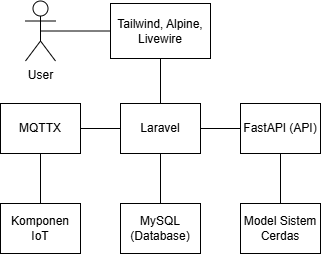
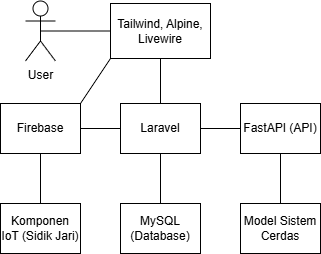
fix: PTC Done

diff --git a/apps/web/resources/views/livewire/feature/lecturer/forms/lecturer-form.blade.php b/apps/web/resources/views/livewire/feature/lecturer/forms/lecturer-form.blade.php
@@ -6,6 +6,27 @@ use App\Enums\User\UserGenderEnum;
 
 <div class="card">
     <div class="card-body p-0">
+
+        @if ($lecturer)
+            @if ($lecturer->user->fp_id)
+                <button wire:click="scanFingerPrint" class="alert alert-info alert-soft w-full cursor-pointer" onclick="document.getElementById('fingerprint_modal').showModal()">
+                    <x-icon.info class="size-4"/>
+                    <span>Sidik jari sudah terdaftar</span>
+                    <span class="btn btn-info btn-md">
+                        <span>Ganti</span>
+                    </span>
+                </button>
+            @else
+                <button wire:click="scanFingerPrint" class="alert alert-error alert-soft w-full cursor-pointer" onclick="document.getElementById('fingerprint_modal').showModal()">
+                    <x-icon.warning class="size-4"/>
+                    <span>Sidik jari belum terdaftar silahkan <span class="font-semibold hover:underline">daftarkan</span> sidik jari anda</span>
+                    <span class="btn btn-error btn-md">
+                        <span>Daftarkan</span>
+                    </span>
+                </button>
+            @endif
+        @endif
+
         <!-- Header -->
         <div class="mb-4">
             <h2 class="card-title text-2xl font-bold">

diff --git a/apps/web/app/Livewire/Feature/Course/Tables/CourseAttendanceTable.php b/apps/web/app/Livewire/Feature/Course/Tables/CourseAttendanceTable.php
@@ -238,8 +238,12 @@ class CourseAttendanceTable extends Component
                 'mode'    => 1,
             ]);
             $this->is_open = true;
+            $this->selectedSchedule->is_open = 1;
+            $this->selectedSchedule->save();
         } catch (Exception $e) {
             $this->is_open = false;
+            $this->selectedSchedule->is_open = 0;
+            $this->selectedSchedule->save();
         }
     }
 
@@ -252,8 +256,12 @@ class CourseAttendanceTable extends Component
                 'mode'    => 0,
             ]);
             $this->is_open = false;
+            $this->selectedSchedule->is_open = 0;
+            $this->selectedSchedule->save();
         } catch (Exception $e) {
             $this->is_open = true;
+            $this->selectedSchedule->is_open = 1;
+            $this->selectedSchedule->save();
         }
     }
 
@@ -286,6 +294,9 @@ class CourseAttendanceTable extends Component
         }
 
         return Attendance::with(['user', 'schedule'])
+            ->whereHas('user.roles', function ($uq) {
+                $uq->where('code', 'mhs');
+            })
             ->where('schedule_id', $schedule->id)
             ->orderBy('id')
             ->paginate($this->perPage);

diff --git a/apps/web/app/Livewire/Feature/Lecturer/Forms/LecturerForm.php b/apps/web/app/Livewire/Feature/Lecturer/Forms/LecturerForm.php
@@ -81,8 +81,8 @@ class LecturerForm extends Component
             'phone_number' => ['nullable', 'string', 'min:10', 'max:13'],
             'gender' => ['nullable', Rule::enum(UserGenderEnum::class)], // atau gunakan Enum Rule jika prefer
             'address' => ['nullable', 'string', 'max:500'],
-            'nip' => ['required', 'string', 'max:20', $lecturerId ? Rule::unique('lecturers','nip')->ignore($lecturerId) : 'unique:lecturers,nip'],
-            'nidn' => ['required', 'string', 'max:20', $lecturerId ? Rule::unique('lecturers','nip')->ignore($lecturerId) : 'unique:lecturers,nip'],
+            'nip' => ['required', 'numeric', 'digits:18', $lecturerId ? Rule::unique('lecturers','nip')->ignore($lecturerId) : 'unique:lecturers,nip'],
+            'nidn' => ['required', 'numeric', 'digits:10', $lecturerId ? Rule::unique('lecturers','nip')->ignore($lecturerId) : 'unique:lecturers,nip'],
             'code' => ['required', 'string', 'max:20', $lecturerId ? Rule::unique('lecturers','nip')->ignore($lecturerId) : 'unique:lecturers,nip'],
             'sp_id' => ['required', 'exists:study_programs,id'],
         ];

diff --git a/apps/web/resources/views/livewire/feature/dashboard/lecturer-dashboard.blade.php b/apps/web/resources/views/livewire/feature/dashboard/lecturer-dashboard.blade.php
@@ -130,7 +130,7 @@
                                         <div class="flex items-start gap-3">
                                             <div class="text-center">
                                                 <div class="text-lg font-bold text-primary">
-                                                    {{ $this->getFormattedTime($schedule->time) }}
+                                                    {{ $schedule->time->label() }}
                                                 </div>
                                             </div>
                                             <div class="flex gap-4  items-center flex-1 ">

diff --git a/apps/web/app/Livewire/Feature/Schedule/Forms/RequestScheduleForm.php b/apps/web/app/Livewire/Feature/Schedule/Forms/RequestScheduleForm.php
@@ -143,7 +143,7 @@ class RequestScheduleForm extends Component
         $this->time = TimeEnum::TIME_1->value;
     }
 
-    public function selectRecommendedRoom($roomId)
+     public function selectRecommendedRoom($roomId)
     {
         // Reset array room_ids dan isi dengan yang dipilih
         $this->room_ids = [$roomId];

diff --git a/apps/web/app/Livewire/Feature/Schedule/Calendars/ScheduleCalendar.php b/apps/web/app/Livewire/Feature/Schedule/Calendars/ScheduleCalendar.php
@@ -18,7 +18,6 @@ class ScheduleCalendar extends LivewireCalendar
         'goToToday'
     ];
 
-
     public function events(): Collection
     {
         // ...existing code...
